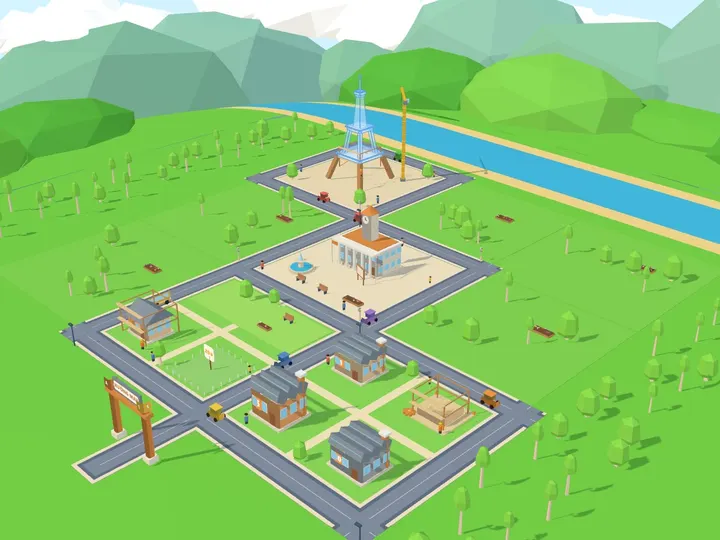
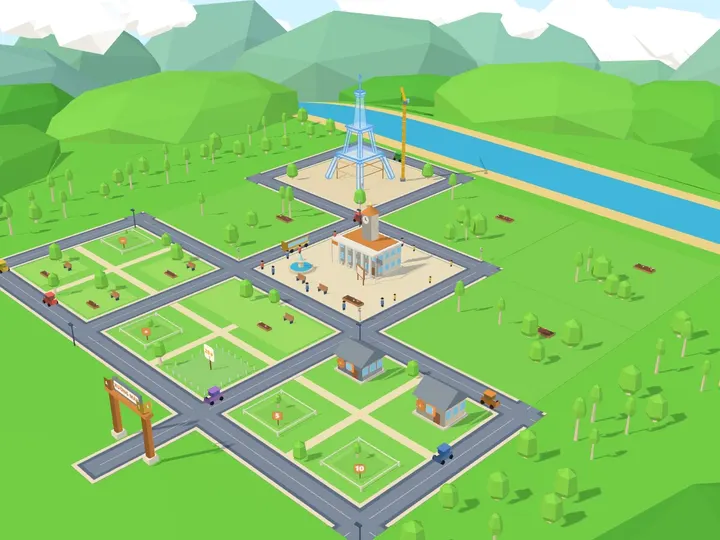
feat(city): sprout plots instead of a building site on day one
Skills not built yet (level 0 without needing help) are drawn as a tidy green lot with a low
fence, a sapling and a name sign. Scaffolding and a worker only mark skills that need help, at
most three per city (most errors first); other weak skills keep their ordinary step. Filler
lots are small detailed houses or gardens instead of the tall low-detail blocks, which also
lowers the worst-case triangle count (Phố Chữ 79.5k -> 74.6k). Island thumbnails re-rendered
from the new "start" sample.

diff --git a/packages/city/src/scene/compose.ts b/packages/city/src/scene/compose.ts
@@ -417,6 +417,12 @@ function buildLot(ctx: BuildCtx, view: CityView, lot: LayoutLot): Object3D {
   if (c.type === "skill") {
     const s = view.skills[c.skill];
     if (!s) return g;
+    if (s.level === 0 && !s.needsHelp) {
+      // not built yet: a tidy sprout plot, never a building site (Pha 10b việc 1)
+      const top = sproutPlot(ctx, g, s.label, c.skill + 1);
+      anchor(g, `skill:${s.skillId}`, 0, top + 1.2, 0);
+      return g;
+    }
     const b = skillBuilding(ctx, s.level, c.skill + 1, s.label);
     // growth inside a level: each step makes the building a floor taller (Pha 10 bổ sung §3)
     const stretch = 1 + GROWTH_PER_STEP * (s.step ?? 0);
@@ -455,31 +461,25 @@ function buildLot(ctx: BuildCtx, view: CityView, lot: LayoutLot): Object3D {
     anchor(g, `plot:${c.plot}`, 0, 2.6, 0);
     return g;
   }
-  if (c.type === "decorHouse" && c.variant % 4 !== 2) {
-    // Filler lots (skills not started yet) are the city's cheapest part: one in four is a detailed
-    // Kenney house (≈ 600 visible triangles), half are Kenney low-detail blocks (≈ 90), the rest gardens.
+  if (c.type === "decorHouse" && c.variant % 4 === 0) {
+    // Filler lots (skills not started yet): one in four is a small detailed Kenney house
+    // (≈ 600 visible triangles), the rest are gardens. The tall low-detail blocks read as
+    // unfinished boxes on a young city, so they are no longer used here (Pha 10b việc 1).
     const detailed = [
       "suburban/building-type-a",
-      "commercial/building-c",
       "suburban/building-type-o",
       "suburban/building-type-k",
+      "commercial/building-c",
     ] as const;
-    const low = [
-      "commercial/low-detail-building-a",
-      "commercial/low-detail-building-wide-a",
-      "commercial/low-detail-building-c",
-      "commercial/low-detail-building-h",
-    ] as const;
-    const key = c.variant % 4 === 0 ? pick(detailed, c.variant / 4) : pick(low, c.variant);
+    const key = pick(detailed, c.variant / 4);
     const spec = pick(ctx.city.kit, c.variant);
     const m = ctx.lib.model(
       key,
       { type: "kit", spec, key: `${ctx.city.id}${c.variant % ctx.city.kit.length}` },
-      TILE * (c.variant % 4 === 0 ? 1.25 : 1.6),
+      TILE * 1.25,
     );
-    add(g, m, 0, 0, 0).rotation.y = c.variant % 2 ? 0 : Math.PI / 2;
-    if (c.variant % 4 !== 0)
-      add(g, tree(ctx, c.variant * 3, 0.9), lot.width * 0.3, 0, lot.depth * 0.3);
+    add(g, m, 0, 0, 0).rotation.y = c.variant % 8 ? 0 : Math.PI / 2;
+    add(g, tree(ctx, c.variant * 3, 0.8), lot.width * 0.32, 0, lot.depth * 0.3);
     return g;
   }
   // garden
@@ -494,6 +494,41 @@ function buildLot(ctx: BuildCtx, view: CityView, lot: LayoutLot): Object3D {
   add(g, flowerBed(1.6, 0.6, lot.x), lot.width * 0.15, 0.03, lot.depth * 0.2);
   add(g, bench(), lot.width * 0.2, 0.03, -lot.depth * 0.18);
   return g;
+}
+
+/**
+ * "Mầm nhà": a skill the child has not built yet. A fresh green lot with a low white fence, one
+ * sapling and a small name sign — it reads as "still to build", not as something broken.
+ * Returns the height of the tallest thing, for the star above it.
+ */
+export function sproutPlot(ctx: BuildCtx, g: Object3D, label: string, seed: number): number {
+  const w = 4.4;
+  const d = 4.2;
+  add(g, box(w, 0.1, d, 0x9fe86a), 0, 0.05, 0);
+  add(g, box(w - 1.2, 0.04, d - 1.2, 0x8fdc5c), 0, 0.12, 0);
+  const fence = 0xfffaf0;
+  const h = 0.36;
+  for (const [x, z, len, alongX] of [
+    [0, -d / 2, w, true],
+    [0, d / 2, w, true],
+    [-w / 2, 0, d, false],
+    [w / 2, 0, d, false],
+  ] as const) {
+    add(g, box(alongX ? len : 0.07, 0.07, alongX ? 0.07 : len, fence), x, h, z);
+  }
+  for (const [x, z] of [
+    [-w / 2, -d / 2],
+    [w / 2, -d / 2],
+    [-w / 2, d / 2],
+    [w / 2, d / 2],
+  ] as const)
+    add(g, box(0.12, h + 0.12, 0.12, fence), x, (h + 0.12) / 2, z);
+  add(g, tree(ctx, seed * 11 + 3, 0.45, ctx.city.id === "viet" && seed % 3 === 0), -0.7, 0.1, -0.4);
+  // the name sign on a short post, facing the camera
+  add(g, cyl(0.05, 0.05, 1.0, 0x9a623e, 4), 1.2, 0.5, 1.2);
+  const sign = plate(ctx, label, ctx.city.a, "#ffffff", 0.9);
+  add(g, sign, 1.2, 1.1, 1.25).rotation.y = Math.PI / 4;
+  return 1.6;
 }
 
 function openPlot(ctx: BuildCtx, g: Object3D) {

diff --git a/packages/city/src/sample.ts b/packages/city/src/sample.ts
@@ -46,25 +46,40 @@ const LABELS: Record<CityId, string[]> = {
   esci: ["sun", "moon", "leaf", "rain", "rock", "bug", "star", "sky", "seed", "fish"],
 };
 
-export type SampleSize = "day1" | "mid" | "full";
+/** start = a real first evening: a handful of skills, most not built yet, nothing needing help. */
+export type SampleSize = "start" | "day1" | "mid" | "full";
 
 export function sampleView(city: CityId, size: SampleSize): CityView {
   const n =
-    size === "day1" ? 5 : size === "mid" ? Math.min(28, SKILL_COUNT[city]) : SKILL_COUNT[city];
+    size === "start"
+      ? 6
+      : size === "day1"
+        ? 5
+        : size === "mid"
+          ? Math.min(28, SKILL_COUNT[city])
+          : SKILL_COUNT[city];
   const skills = Array.from({ length: n }, (_, i) => {
-    const level = ((i * 7 + 3) % 5) as BuildingLevel;
+    const raw = ((i * 7 + 3) % 5) as BuildingLevel;
+    const level =
+      size === "start"
+        ? ((i < 2 ? 1 : 0) as BuildingLevel)
+        : size === "day1"
+          ? (Math.min(raw, 2) as BuildingLevel)
+          : raw;
     return {
       skillId: `${city}-skill-${i}`,
       label: LABELS[city][i % LABELS[city].length] as string,
-      level: size === "day1" ? (Math.min(level, 2) as BuildingLevel) : level,
+      level,
       step: (level > 0 && level < 4 ? i % 3 : 0) as GrowthStep,
-      needsHelp: i % 9 === 4,
+      // the city caps scaffolding at three (MAX_SCAFFOLDS)
+      needsHelp: size !== "start" && i % 9 === 4 && i < 9 * 3,
       mission: i % 6 === 1,
     };
   });
   const publics = Object.keys(PUBLIC_BUILDINGS);
   const plotCodes = Object.keys(PLOT_CATALOGUE);
-  const owned = size === "day1" ? 0 : size === "mid" ? 3 : 10;
+  const owned = size === "day1" || size === "start" ? 0 : size === "mid" ? 3 : 10;
+  const first = size === "day1" || size === "start";
   return {
     subject: city,
     skills,
@@ -77,19 +92,19 @@ export function sampleView(city: CityId, size: SampleSize): CityView {
         build: plotCodes[i % plotCodes.length] as string,
       })),
     },
-    publicBuildings:
-      size === "day1" ? [] : size === "mid" ? publics.slice(0, 5) : publics.slice(0, 14),
+    publicBuildings: first ? [] : size === "mid" ? publics.slice(0, 5) : publics.slice(0, 14),
     wonder: {
-      pieces:
-        size === "day1"
-          ? 1
-          : size === "mid"
-            ? Math.floor(WONDER_PIECES[city] / 2)
-            : WONDER_PIECES[city] - 1,
+      pieces: first
+        ? size === "start"
+          ? 0
+          : 1
+        : size === "mid"
+          ? Math.floor(WONDER_PIECES[city] / 2)
+          : WONDER_PIECES[city] - 1,
     },
-    bustle: size === "day1" ? 1 : size === "mid" ? 3 : 4,
-    decorations: size === "day1" ? [] : Object.keys(DECORATIONS).slice(0, size === "mid" ? 4 : 10),
-    pets: size === "day1" ? [] : ["dog", "cat"],
+    bustle: first ? 1 : size === "mid" ? 3 : 4,
+    decorations: first ? [] : Object.keys(DECORATIONS).slice(0, size === "mid" ? 4 : 10),
+    pets: first ? [] : ["dog", "cat"],
     townHallOrder: "open",
   };
 }

diff --git a/packages/core/src/city/rules.ts b/packages/core/src/city/rules.ts
@@ -507,13 +507,44 @@ export function needsHelp(
   );
 }
 
+/**
+ * At most this many buildings wear scaffolding and a worker at once (Pha 10b việc 1): a city full
+ * of wooden frames reads as a building site, not as a town being grown.
+ */
+export const MAX_SCAFFOLDS = 3;
+
+/**
+ * Which skills get the scaffolding: those that need help, most errors first (then an active
+ * remediation ladder, then the lowest mastery). The rest are drawn at their ordinary step.
+ */
+export function scaffoldedSkills(
+  skills: readonly CitySkillInput[],
+  max = MAX_SCAFFOLDS,
+): Set<string> {
+  return new Set(
+    skills
+      .filter(needsHelp)
+      .map((s, i) => ({ s, i }))
+      .sort(
+        (a, b) =>
+          b.s.errorCount7d - a.s.errorCount7d ||
+          Number(b.s.remediationActive) - Number(a.s.remediationActive) ||
+          a.s.mastery - b.s.mastery ||
+          a.i - b.i,
+      )
+      .slice(0, max)
+      .map(({ s }) => s.skillId),
+  );
+}
+
 export function buildCityState(input: CityInput): CityState {
   const skillOrder = mergeSkillOrder(input.storedOrder, input.skills);
   const byId = new Map(input.skills.map((s) => [s.skillId, s]));
+  const scaffolded = scaffoldedSkills(input.skills);
   const missions = new Set(input.missionSkillCodes);
   const skills = skillOrder.flatMap((id) => {
     const s = byId.get(id);
-    // a skill whose evidence was undone keeps its lot as scaffolding — nothing disappears
+    // a skill whose evidence was undone keeps its lot as a sprout plot — nothing disappears
     if (!s)
       return [
         {
@@ -532,7 +563,7 @@ export function buildCityState(input: CityInput): CityState {
         label: skillLabel(input.city, s.code, s.nameVi, s.nameEn),
         level,
         step: stepFor(s.mastery, level),
-        needsHelp: needsHelp(s),
+        needsHelp: scaffolded.has(s.skillId),
         mission: missions.has(s.code),
       },
     ];

diff --git a/packages/core/src/city/rules.test.ts b/packages/core/src/city/rules.test.ts
@@ -317,3 +317,30 @@ describe("growth step inside a level", () => {
     expect(stepFor(95, 4)).toBe(0);
   });
 });
+
+describe("sprouts and scaffolding (Pha 10b việc 1)", () => {
+  it("a day-one city of 20 untouched skills has no scaffolding at all", () => {
+    const skills = Array.from({ length: 20 }, (_, i) =>
+      skill(`s${i}`, { mastery: 0, status: "NEW", firstAt: daysAgo(1) }),
+    );
+    const { view } = buildCityState(input({ skills }));
+    expect(view.skills).toHaveLength(20);
+    expect(view.skills.filter((s) => s.needsHelp)).toHaveLength(0);
+    expect(view.skills.every((s) => s.level === 0)).toBe(true);
+  });
+
+  it("six skills needing help show exactly three scaffolds, most errors first", () => {
+    const skills = [2, 5, 2, 4, 3, 2].map((errors, i) =>
+      skill(`h${i}`, { mastery: 30, errorCount7d: errors }),
+    );
+    const { view } = buildCityState(input({ skills }));
+    const shown = view.skills.filter((s) => s.needsHelp).map((s) => s.skillId);
+    expect(shown).toHaveLength(3);
+    expect(new Set(shown)).toEqual(new Set(["h1", "h3", "h4"]));
+  });
+
+  it("a weak skill without repeated errors is a sprout, not a building site", () => {
+    const { view } = buildCityState(input({ skills: [skill("w", { mastery: 25 })] }));
+    expect(view.skills[0]).toMatchObject({ level: 0, needsHelp: false });
+  });
+});

diff --git a/packages/core/src/city/view.ts b/packages/core/src/city/view.ts
@@ -4,7 +4,7 @@
 
 export type CitySubject = "viet" | "vmath" | "esl" | "enl" | "emath" | "esci";
 
-/** 0 = scaffold (0–39) · 1 (40–59) · 2 (60–84) · 3 (85+) · 4 = skyscraper (MASTERED ≥ 30 days). */
+/** 0 = not built yet (0–39) · 1 (40–59) · 2 (60–84) · 3 (85+) · 4 = skyscraper (MASTERED ≥ 30 days). */
 export type BuildingLevel = 0 | 1 | 2 | 3 | 4;
 export type GrowthStep = 0 | 1 | 2;
 
@@ -18,7 +18,10 @@ export interface CitySkillBuilding {
    * finished station shows the building taller even when the level has not changed yet.
    */
   step: GrowthStep;
-  /** High ErrorStat → scaffold + waiting worker, tapping starts a TARGETED session. */
+  /**
+   * Scaffolding + a waiting worker (repeated errors, a remediation ladder, NEEDS_PRACTICE) — at most
+   * three per city. Level 0 without it is a sprout plot: a tidy green lot, a sapling and a name sign.
+   */
   needsHelp: boolean;
   /** A station of the city session still waits here → a star on the roof. */
   mission: boolean;

diff --git a/packages/city/bench/main.ts b/packages/city/bench/main.ts
@@ -113,7 +113,7 @@ async function main() {
       load();
     };
     const sizeSel = document.createElement("select");
-    for (const s of ["day1", "mid", "full"])
+    for (const s of ["start", "day1", "mid", "full"])
       sizeSel.append(new Option(s, s, s === size, s === size));
     sizeSel.onchange = () => {
       size = sizeSel.value as SampleSize;

diff --git a/docs/06-THIET-KE-UI.md b/docs/06-THIET-KE-UI.md
@@ -65,6 +65,11 @@ một thành phố; **cả buổi tối diễn ra trong thành phố**, không c
 - **Công trình lớn lên theo tiến bộ thật**: mức theo mastery (0–39 giàn giáo · 40–59 · 60–84 · 85+ ·
   chọc trời khi MASTERED ≥ 30 ngày) **và bậc trong mức** (mỗi phần ba của dải mastery = cao thêm một tầng).
   Sau một trạm, công trình vừa làm không bao giờ hiện nhỏ đi.
+- **Mầm nhà, không phải công trường** *(Pha 10b)*: kỹ năng chưa xây (mức 0) là **ô đất xanh gọn có
+  hàng rào thấp, một cây con và biển tên nhỏ** — không khung gỗ, không thợ. Giàn giáo + thợ **chỉ** khi
+  kỹ năng cần giúp (lỗi 7 ngày ≥ 2, thang khắc phục đang chạy, NEEDS_PRACTICE) và **tối đa 3 cái** trong
+  một thành phố, ưu tiên kỹ năng lỗi nhiều nhất; kỹ năng yếu còn lại vẽ ở bậc thường. Lô trống dự phòng
+  là nhà nhỏ chi tiết hoặc vườn, không dùng khối cao ốc sơ sài.
 - **Thành phố bắt đầu nhỏ**: ngày đầu chỉ 2 khu phố + toà thị chính + khu kỳ quan, còn lại đồi cỏ, rừng,
   sông chờ mở đất; một ô đất khoá hiện biển "N★". Cỡ thành phố = tiến bộ của con.
 - **Màu**: mỗi công trình tô bằng bảng riêng = hai màu của thành phố + mái/tường của thành phố + **bảng

diff --git a/docs/adr/ADR-21-du-lieu-thanh-pho.md b/docs/adr/ADR-21-du-lieu-thanh-pho.md
@@ -48,6 +48,9 @@ Khi đọc mã và schema thì có năm chỗ đề bài không khớp thẳng v
      ngưỡng `ACTIVE_ERROR_COUNT_7D` của thang khắc phục);
    - kỹ năng đang có thang khắc phục ACTIVE;
    - trạng thái NEEDS_PRACTICE.
+
+   *Pha 10b:* tối đa `MAX_SCAFFOLDS = 3` công trình hiện giàn giáo cùng lúc (lỗi nhiều nhất trước,
+   rồi thang khắc phục, rồi mastery thấp). Mức 0 không cần giúp vẽ thành "mầm nhà".
 5. ~~**Cửa riêng cho con: `POST /api/kid/city/practice`.**~~ *(bỏ ngày 15/09 — xem "Bổ sung" bên dưới)* Route cũ vẫn chặn CHILD. Cửa mới không nhận
    tên kỹ năng tự do: máy chủ tự tính lại thành phố và chỉ mở phiên cho **công trình mà chính thành phố
    đang hiện là chưa vững** (mức 0 hoặc cần giúp). Mỗi kỹ năng chỉ một phiên mỗi ngày, chạm lại thì mở lại
